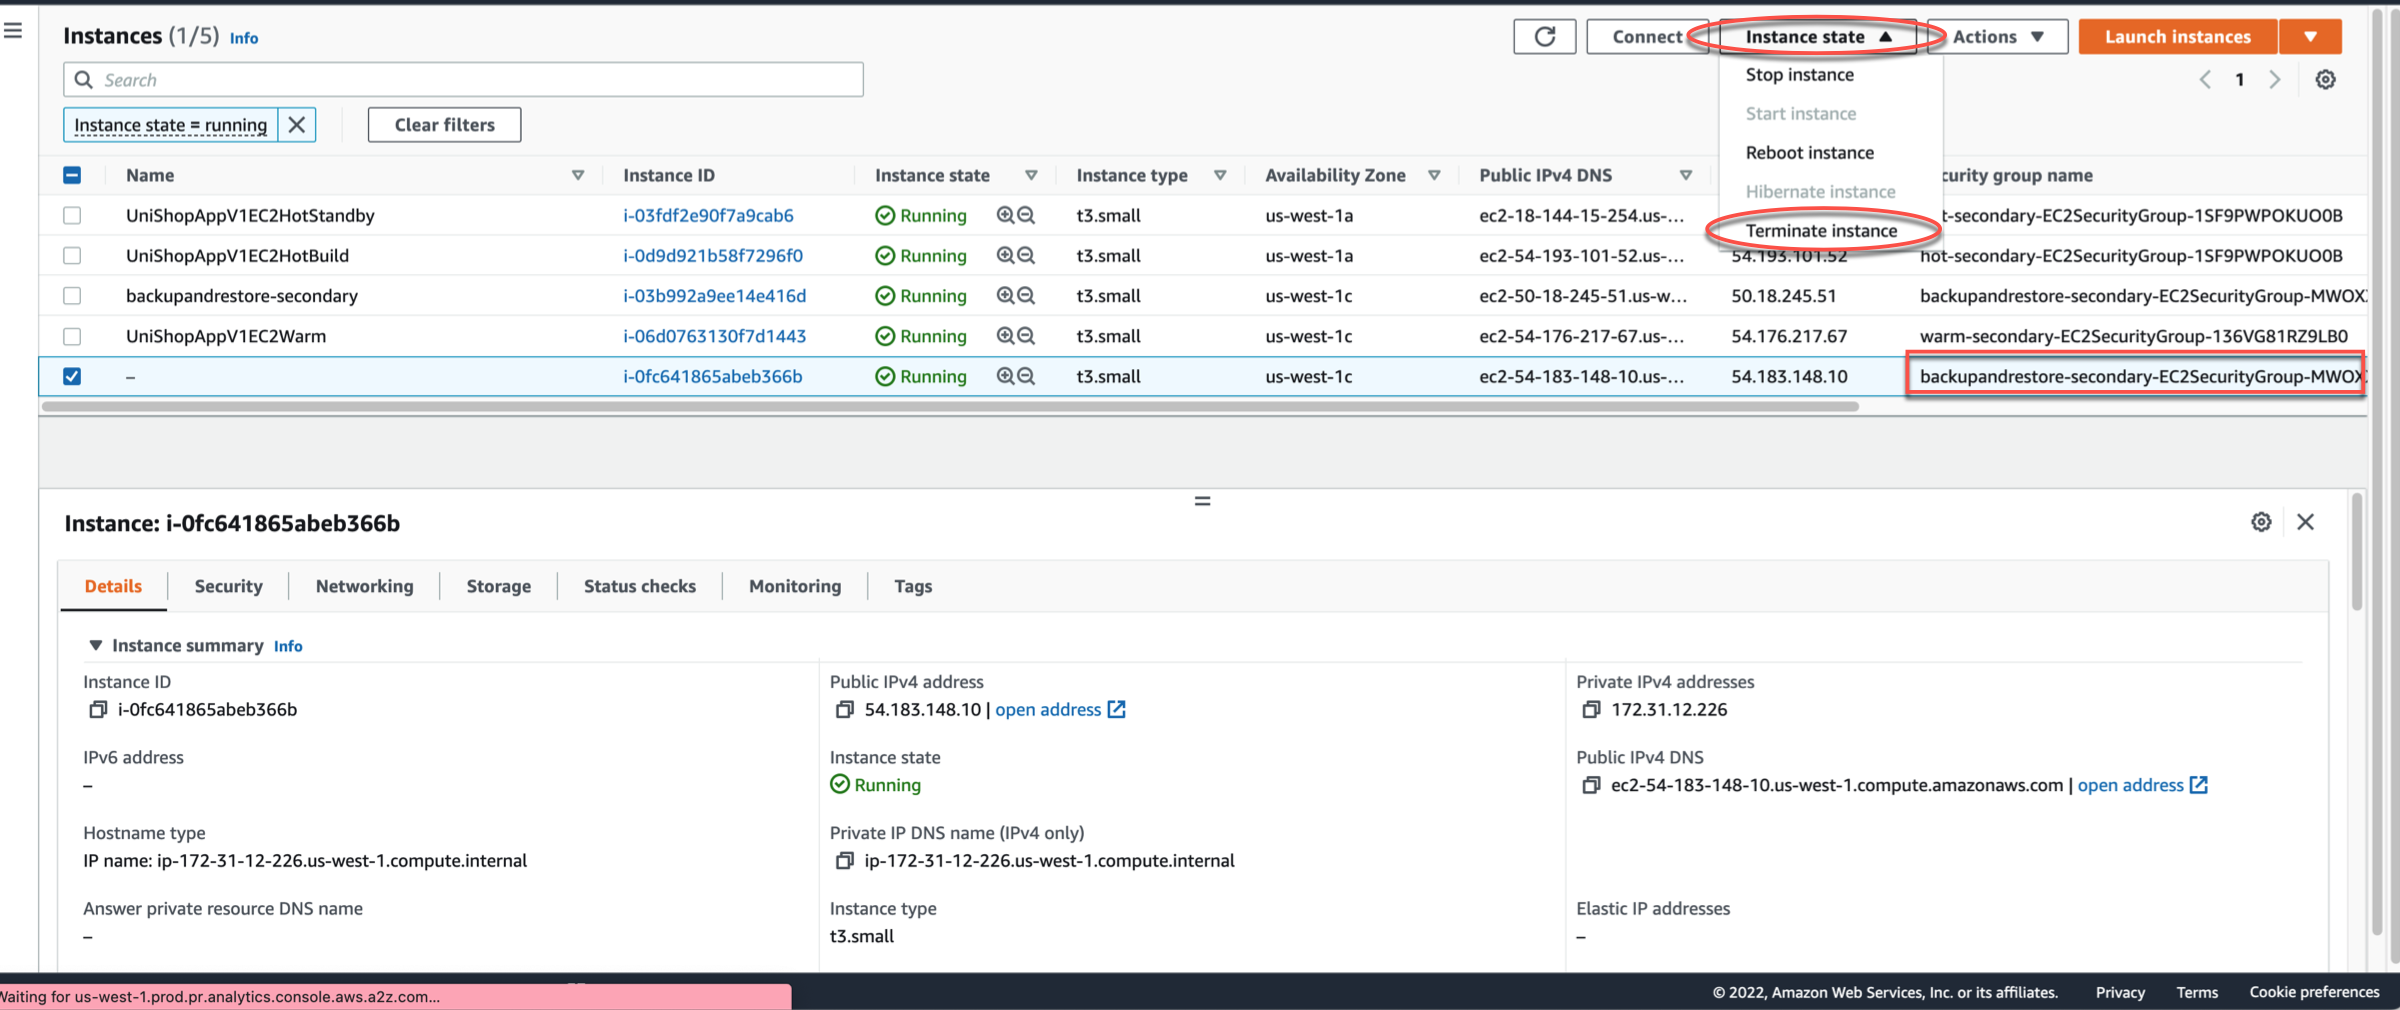
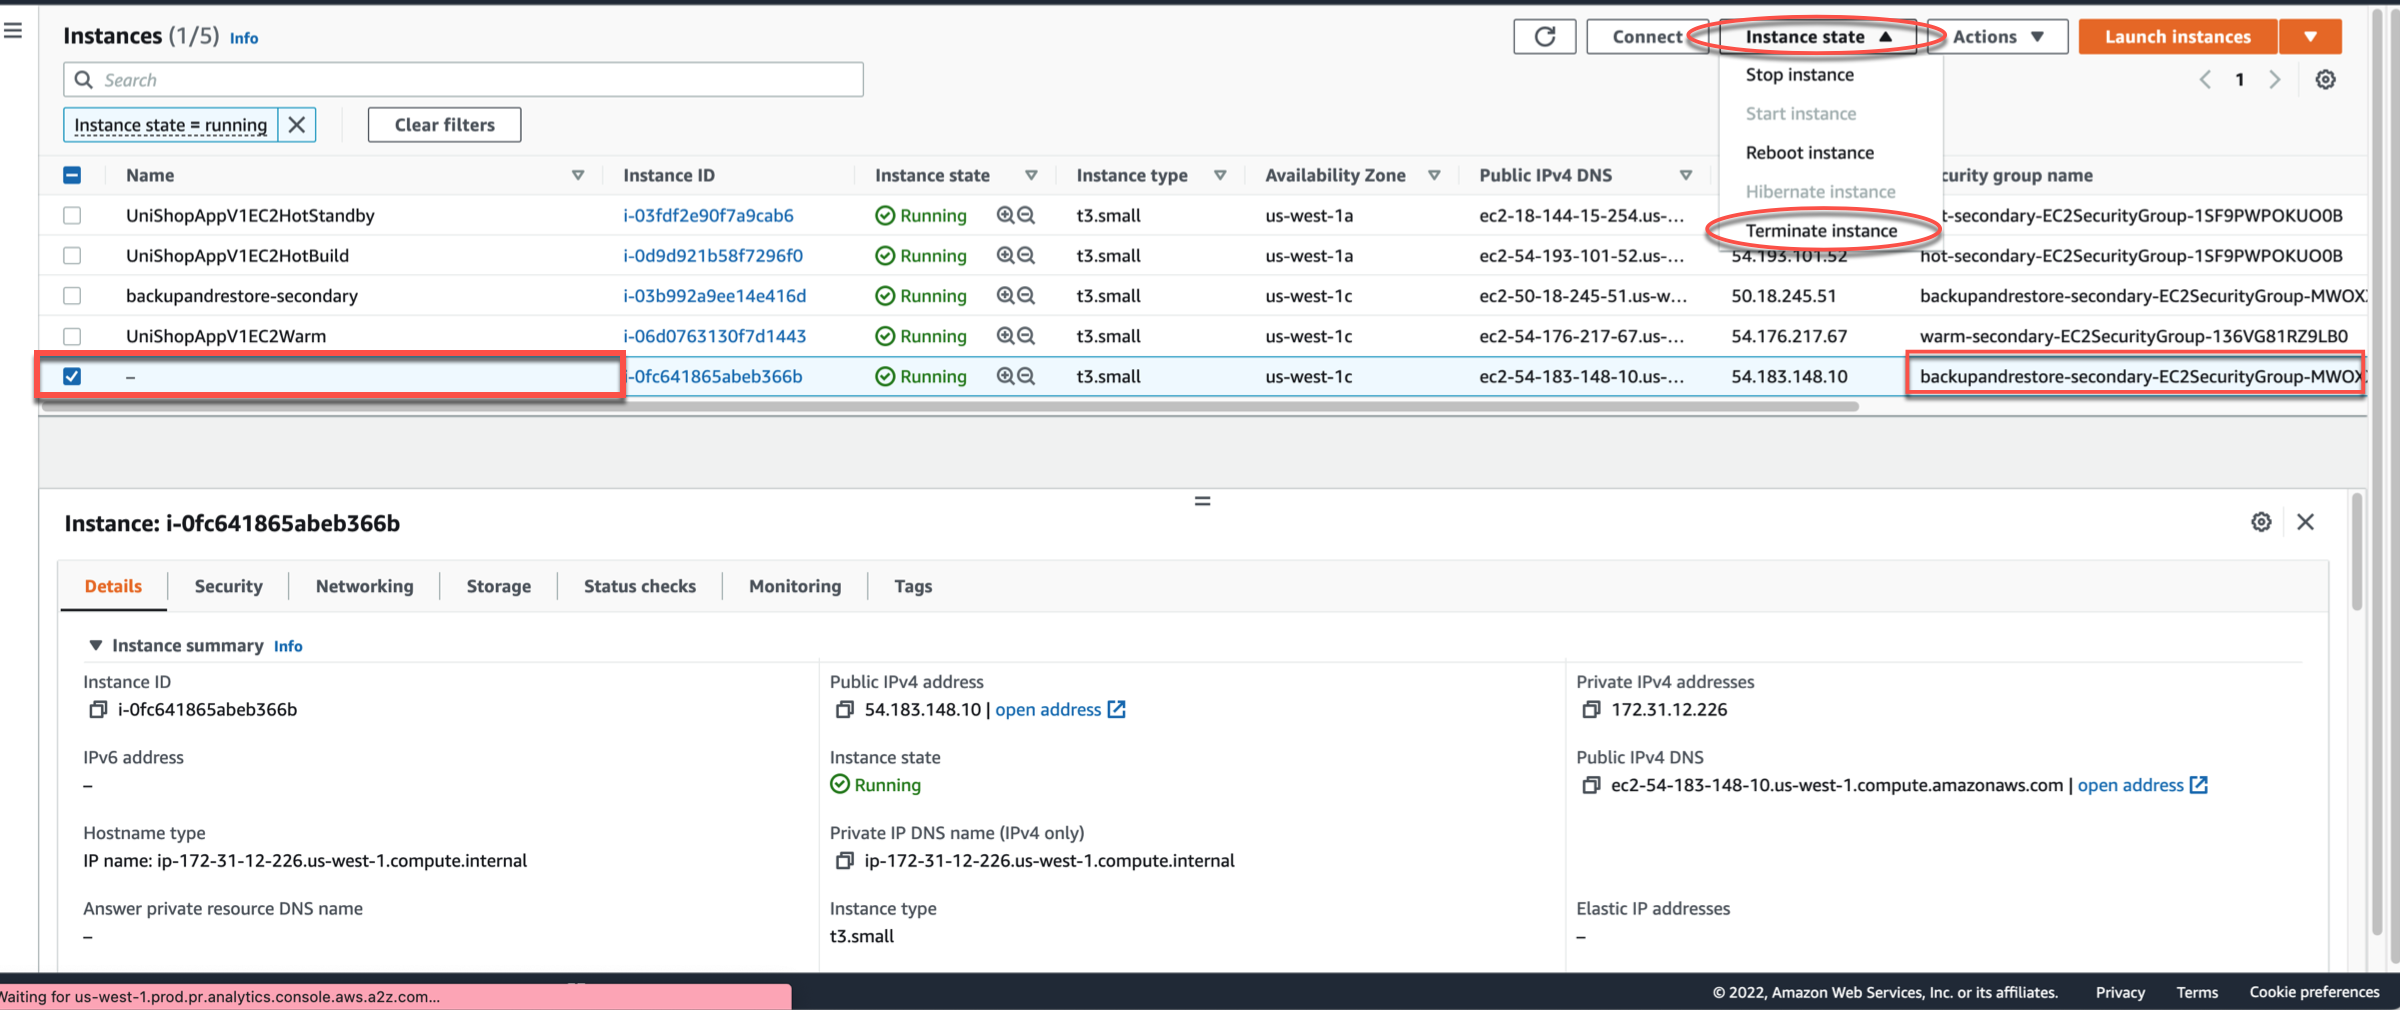
Final feedback

Changed region(s): [[0.0, 0.3376, 0.2812, 0.399]]

diff --git a/content/Reliability/Disaster Recovery/Workshop_1/7-cleanup/_index.en.md b/content/Reliability/Disaster Recovery/Workshop_1/7-cleanup/_index.en.md
@@ -31,6 +31,12 @@ Please repeat steps **1.1** through **1.4** for the following buckets:
 
 {{% /notice %}}
 
+1.5 Select the bucket with the prefix **backupandrestore-secondary-uibucket-xxxx** and click the **Delete** button.
+
+{{< img cl-11.png >}}
+
+1.6 Confirm deletion.
+
 #### Amazon CloudFormation
 
 2.1 Click [CloudFormation](https://us-east-1.console.aws.amazon.com/cloudformation/home?region=us-east-1#/) to navigate to the dashboard in the **N. Virginia (us-east-1)** region.
@@ -55,7 +61,7 @@ Please repeat steps **2.1** through **2.3** for the `backupandrestore-secondary`
 
 {{< img BK-24.png >}}
 
-3.3 Select all the backups and select **Actions**, then select **Delete**.
+3.3 Select all the backups and select **Delete** under **Actions**.
 
 {{< img BK-27.png >}}
 
@@ -71,9 +77,10 @@ Please repeat steps **3.1** through **3.3** for [AWS Backup](https://us-west-1.c
 
 4.1 Click [EC2](https://us-west-1.console.aws.amazon.com/ec2/home?region=us-west-1#Instances:instanceState=running) to navigate to the dashboard in the **N. California (us-west-1)** region.
 
-4.2 Select the instance that has a **Security group name** of **backupandrestore-secondary-EC2SecurityGroup-xxxx** and click **Instance State**, then click **Terminate instance**.
+4.2 Select the restored instance which will NOT have a **Name** and will has a **Security group name** of **backupandrestore-secondary-EC2SecurityGroup-xxxx** and click **Instance State**, then click **Terminate instance**.
 
 {{< img cl-10.png >}}
+
 
 {{< prev_next_button link_prev_url="../6-verify-secondary/" title="Congratulations!" final_step="true" >}}
 This lab specifically helps you with the best practices covered in question [REL 13  How do you plan for disaster recovery (DR)](https://docs.aws.amazon.com/wellarchitected/latest/framework/a-failure-management.html)

diff --git a/content/Reliability/Disaster Recovery/Workshop_2/3-prepare-secondary/3.1-ec2/_index.en.md b/content/Reliability/Disaster Recovery/Workshop_2/3-prepare-secondary/3.1-ec2/_index.en.md
@@ -16,13 +16,13 @@ weight = 1
 
 {{< img BK-3.png >}}
 
-{{% notice warning %}}
-You will need to wait for the AMI status to be **Ready** before moving on to the next step.  This can take several minutes.
-{{% /notice %}}
-
 #### Copy the EC2 Amazon Machine Image (AMI)
 
 2.1 Click [AMIs](https://us-east-1.console.aws.amazon.com/ec2/v2/home?region=us-east-1#Images:visibility=owned-by-me) to navigate to the dashboard.
+
+{{% notice warning %}}
+You will need to wait for the AMI status to be **Available** before moving on to the next step.  This can take several minutes.
+{{% /notice %}}
 
 2.2 Select **pilotAMI**. Click **Copy AMI** under the **Actions** dropdown.
 

diff --git a/content/Reliability/Disaster Recovery/Workshop_1/5-failover/5.1-restore/_index.en.md b/content/Reliability/Disaster Recovery/Workshop_1/5-failover/5.1-restore/_index.en.md
@@ -40,7 +40,6 @@ We use [user data](https://docs.aws.amazon.com/AWSEC2/latest/UserGuide/user-data
 Expand the **Advanced settings** section and copy and paste the below script as the **User data**, then click the **Restore backup** button.
 
 **User Data Script**:
-{{% expand "Click here to see the user data:" %}}
 
 ```bash
 #!/bin/bash     
@@ -53,7 +52,6 @@ export DB_ENDPOINT=$DATABASE
 EOF
 sudo systemctl restart unishop
 ```
-{{% /expand %}}
 
 {{< img rs-22.png >}}
 

diff --git a/content/Reliability/Disaster Recovery/Workshop_1/5-failover/5.1-restore/_index.es.md b/content/Reliability/Disaster Recovery/Workshop_1/5-failover/5.1-restore/_index.es.md
@@ -40,7 +40,6 @@ Usaremos [Datos de usuario](https://docs.aws.amazon.com/AWSEC2/latest/UserGuide/
 Copie y pegue el siguiente script como *Datos de usuario**, después oprima el botón **Restaurar copia de seguridad**
 
 **Script de datos de usuario**:
-{{% expand "Click here to see the user data:" %}}
 
 ```bash
 #!/bin/bash     
@@ -53,7 +52,6 @@ export DB_ENDPOINT=$DATABASE
 EOF
 sudo systemctl restart unishop
 ```
-{{% /expand %}}
 
 {{< img rs-22-es.png >}}
 

diff --git a/content/Reliability/Disaster Recovery/Workshop_2/4-failover/4.2-ec2/_index.es.md b/content/Reliability/Disaster Recovery/Workshop_2/4-failover/4.2-ec2/_index.es.md
@@ -41,7 +41,6 @@ Debe esperar a que pilotAMI cambie a estado **Disponible** antes de comenzar el 
 Copie y pegue el siguiente _script_ como **datos de usuario**, luego oprima **Lanzar instancia**.
 
 **Script Datos de usuario**:
-{{% expand "Click here to see the user data:" %}}
 
 ```bash
 #!/bin/bash     
@@ -54,7 +53,6 @@ export DB_ENDPOINT=$DATABASE
 EOF
 sudo systemctl restart unishop
 ```
-{{% /expand %}}
 
 {{< img pa-5-ES.png >}}
 

diff --git a/content/Reliability/Disaster Recovery/Workshop_2/4-failover/4.2-ec2/_index.en.md b/content/Reliability/Disaster Recovery/Workshop_2/4-failover/4.2-ec2/_index.en.md
@@ -42,7 +42,6 @@ We use [user data](https://docs.aws.amazon.com/AWSEC2/latest/UserGuide/user-data
 Copy and paste the below script as the **User data**, then click the **Launch instance** button.
 
 **User Data Script**:
-{{% expand "Click here to see the user data:" %}}
 
 ```bash
 #!/bin/bash     
@@ -55,7 +54,6 @@ export DB_ENDPOINT=$DATABASE
 EOF
 sudo systemctl restart unishop
 ```
-{{% /expand %}}
 
 {{< img pa-5.png >}}
 

diff --git a/content/Reliability/Disaster Recovery/Workshop_1/5-failover/_index.en.md b/content/Reliability/Disaster Recovery/Workshop_1/5-failover/_index.en.md
@@ -26,7 +26,7 @@ We will now simulate a regional service event affecting the Unishop website in *
 
 {{< img f-2.png >}}
 
-1.4 Enable the **Block all public access** checkbox, then click the **Save** button.
+1.4 Enable the **Block all public access** checkbox, then click the **Save changes** button.
 
 {{< img f-3.png >}}
 
